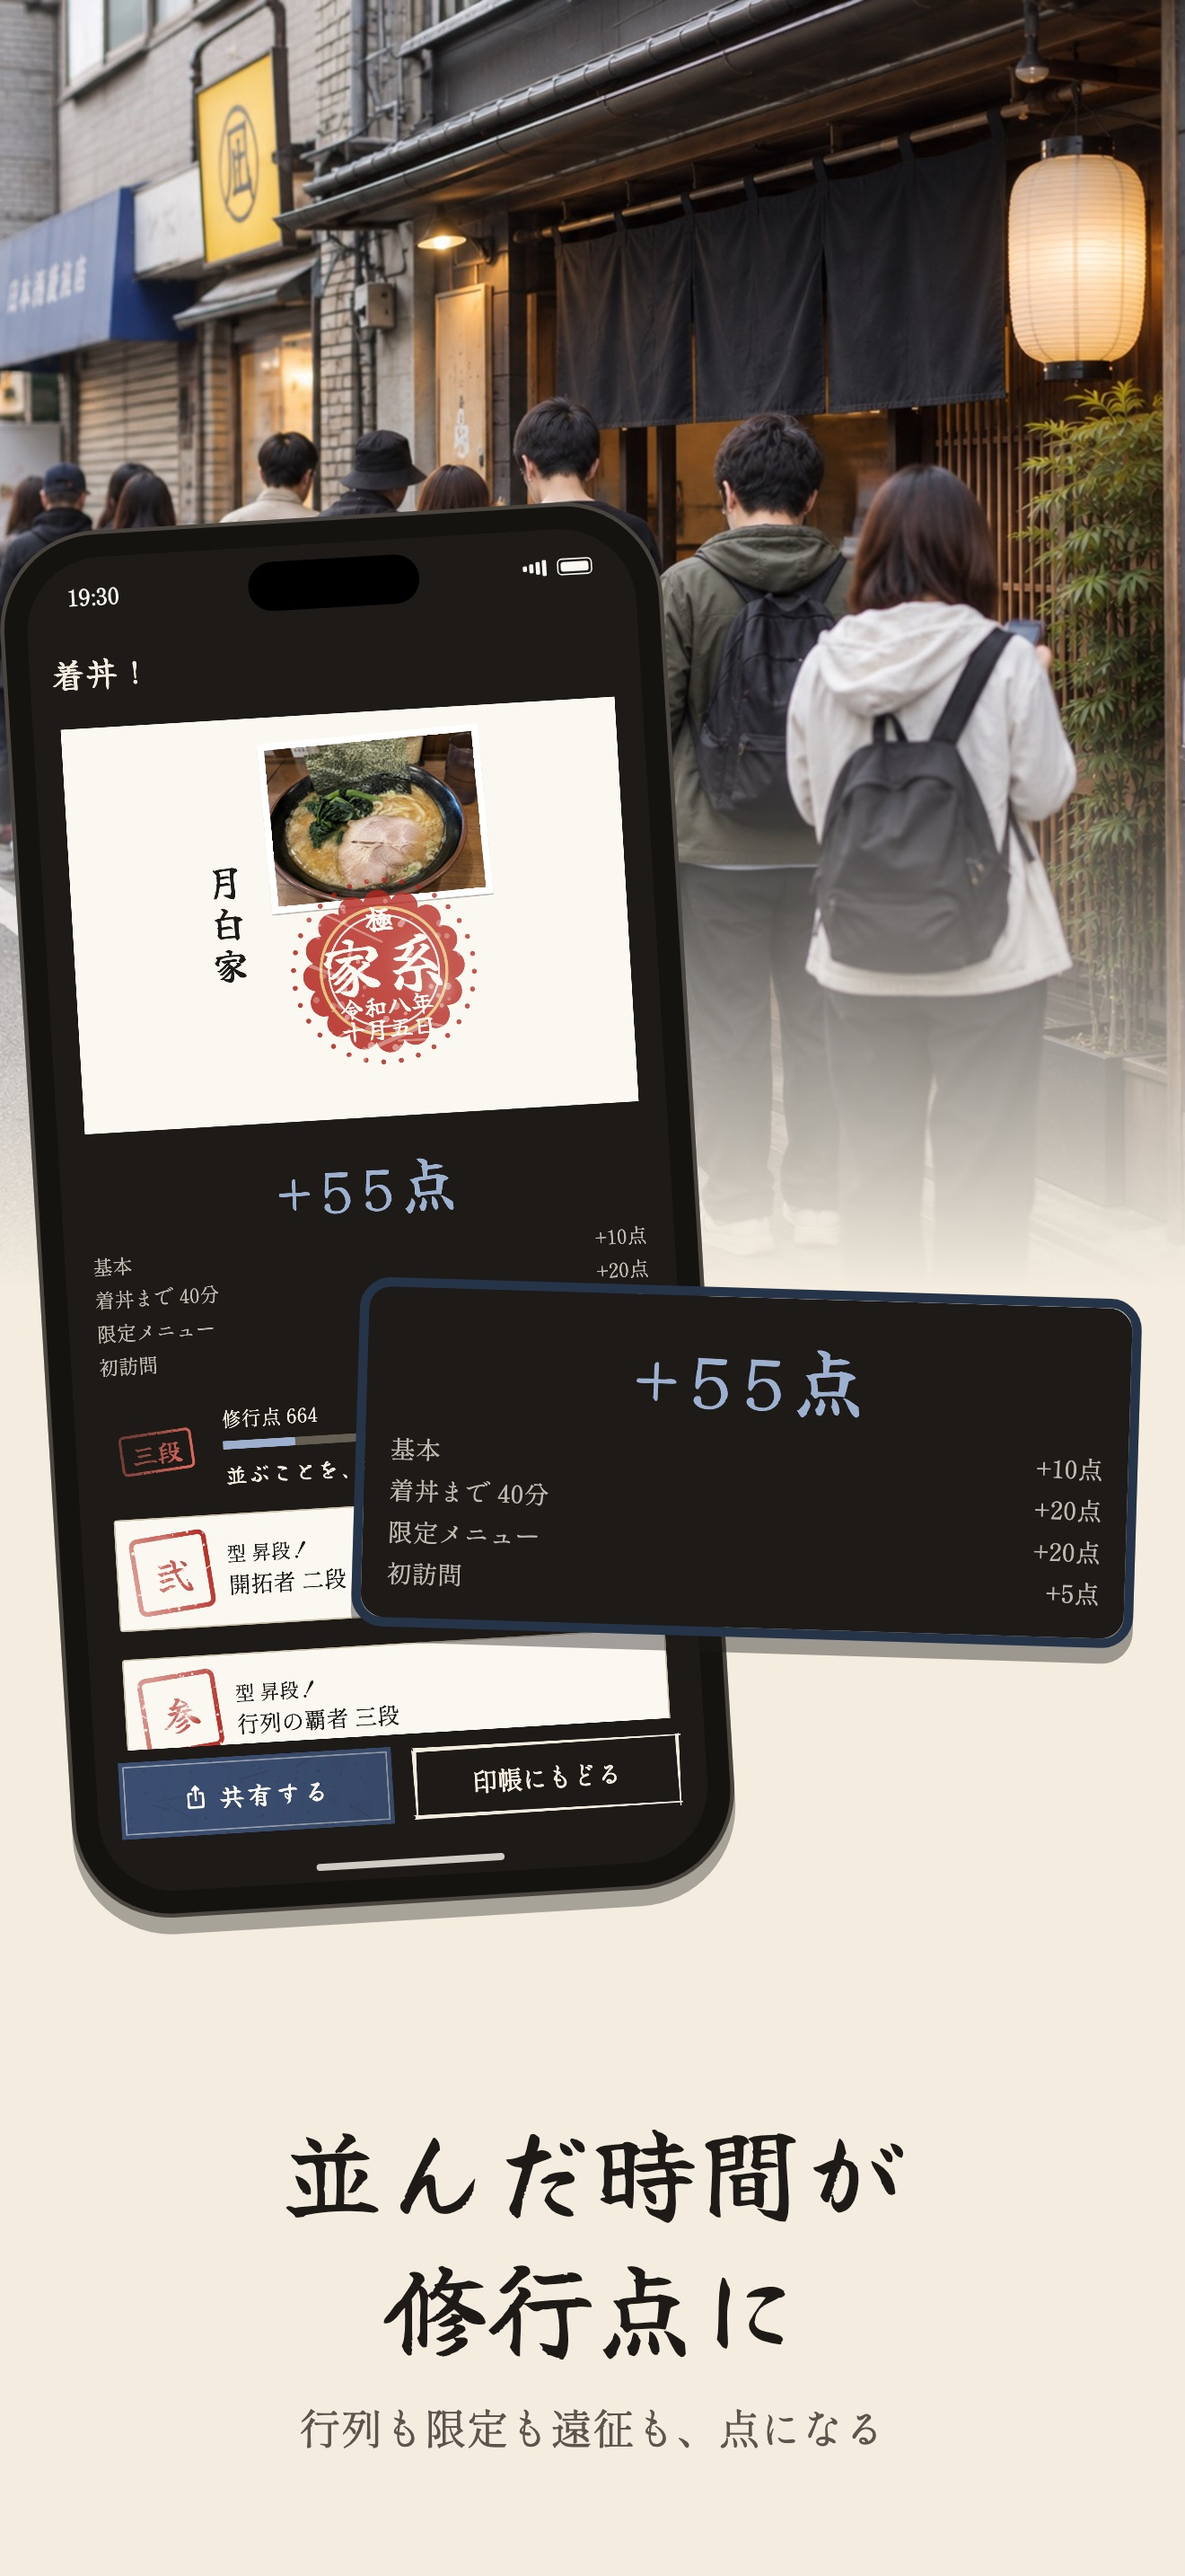
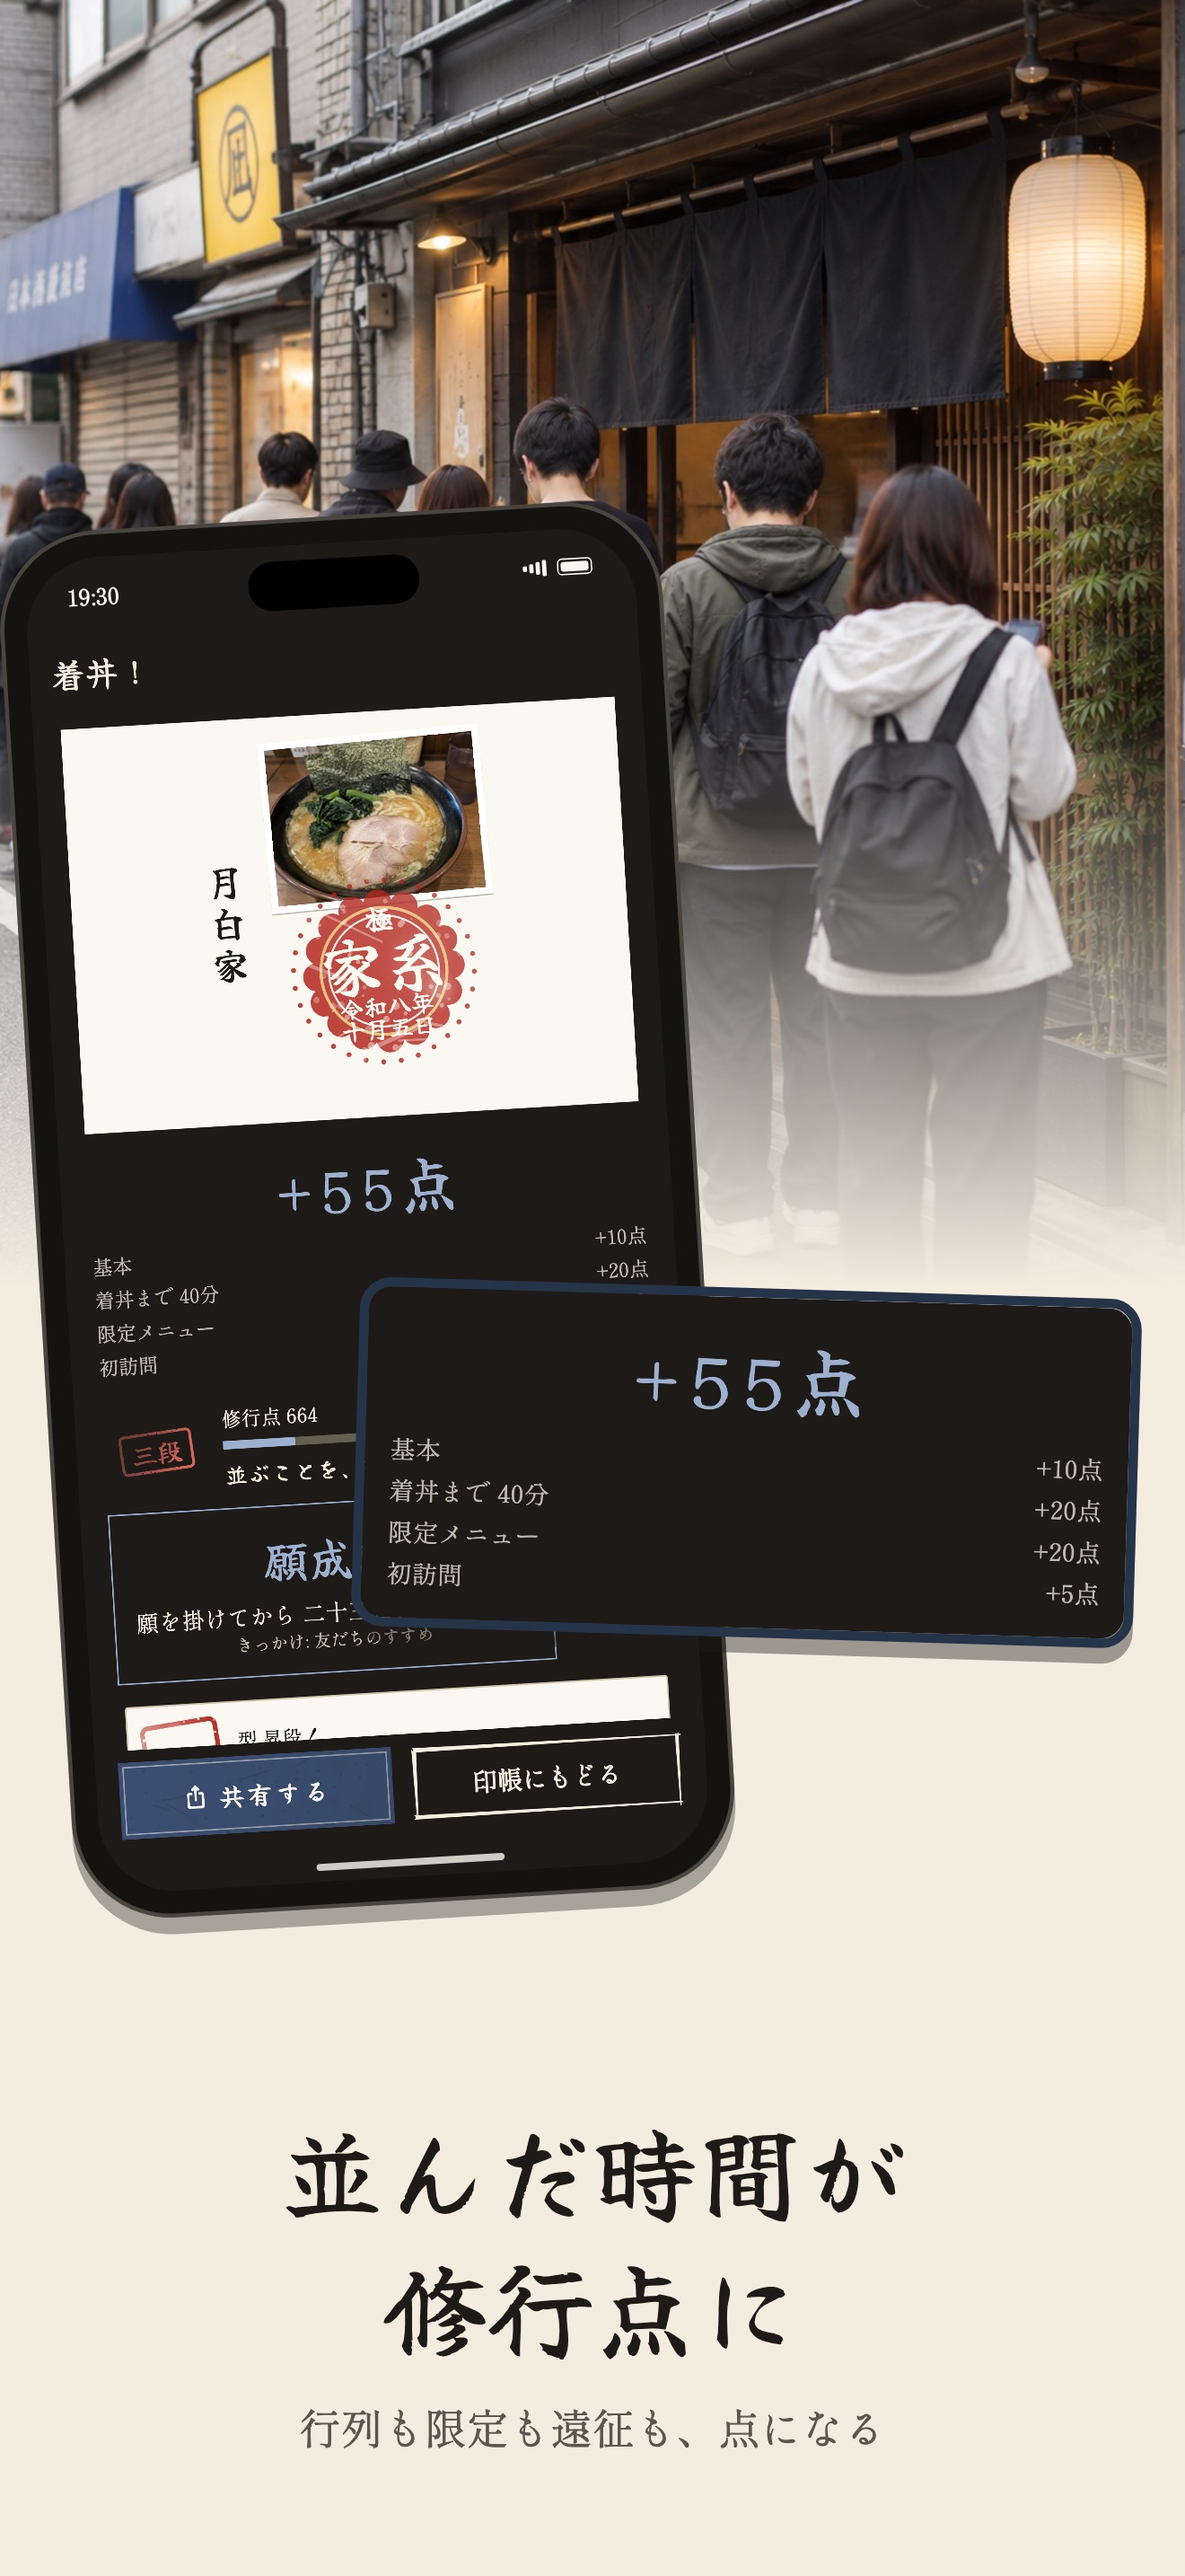
セルフレビューの指摘に対応する（Android の1枚目が切れる・願成就・写真の出所など）

Changed region(s): [[0.0932, 0.5586, 0.5591, 0.6827]]

diff --git a/test/tool/store_shots_test.dart b/test/tool/store_shots_test.dart
@@ -301,6 +301,7 @@ final _wishes = [
     trigger: '友だちのすすめ',
     note: '限定の濃厚が名物らしい',
     createdAt: DateTime(2026, 9, 12),
+    fulfilledVisitId: 'today',
   ),
   Wish(
     id: 'w2',
@@ -462,17 +463,15 @@ void main() {
   setUpAll(() async {
     documents = createTempDirectory();
     photo = p.join(documents.path, 'camera.jpg');
+    if (!_update) {
+      File(photo).writeAsBytesSync(const []);
+      return;
+    }
     for (final name in _photoNames) {
       final bytes = File(_sourcePhoto(name)).readAsBytesSync();
       final codec = await ui.instantiateImageCodec(bytes);
       photos[name] = (await codec.getNextFrame()).image;
-      if (_update) {
-        File(p.join(documents.path, _photoFor(name))).writeAsBytesSync(bytes);
-      }
-    }
-    if (!_update) {
-      File(photo).writeAsBytesSync(const []);
-      return;
+      File(p.join(documents.path, _photoFor(name))).writeAsBytesSync(bytes);
     }
     await loadShotFonts();
     File(_sourcePhoto('iekei')).copySync(photo);
@@ -557,7 +556,10 @@ void main() {
             padding: device.padding,
           );
           expect(tester.takeException(), isNull);
-          final zoom = screen.zoom?.call(tester);
+          // 画面の外は写らないので、拡大する部分は画面の中に収める。
+          final zoom = screen.zoom
+              ?.call(tester)
+              .intersect(Offset.zero & device.screen);
           final image = await tester.runAsync(
             () => captureShot(boundary, ratio),
           );
@@ -606,7 +608,7 @@ void main() {
         child: localizedApp(
           theme: buildAppTheme(),
           home: _FeatureGraphic(
-            photo: photos['iekei']!,
+            photo: photos['iekei'],
             stamps: [_today, _scoredOf('b23')],
           ),
         ),
@@ -680,7 +682,7 @@ class _Composition extends StatelessWidget {
           clipBehavior: Clip.hardEdge,
           children: switch (shot) {
             StoreShot.inchou => _inchou(top, below),
-            StoreShot.record => _record(top, below),
+            StoreShot.record => _record(top),
             StoreShot.result => _result(),
             StoreShot.shugyo => _shugyo(top, below),
             StoreShot.journey => _journey(),
@@ -735,7 +737,7 @@ class _Composition extends StatelessWidget {
 
   /// 1枚目: 大きな端末で印帳を見せ、横に大きな印を2つ浮かべる。
   List<Widget> _inchou(double top, double below) {
-    final width = _fit(0.8, 0.86);
+    final width = _fit(0.8, (h - below - h * 0.025) / h);
     final height = width * _aspect;
     final card = math.min(w * 0.36, h * 0.24);
     return [
@@ -764,7 +766,7 @@ class _Composition extends StatelessWidget {
   }
 
   /// 2枚目: 実写の一杯を上いっぱいに敷き、その上に記録画面を置く。
-  List<Widget> _record(double top, double below) {
+  List<Widget> _record(double top) {
     final width = _fit(0.66, 0.6);
     final height = width * _aspect;
     final photoHeight = h * 0.56;
@@ -925,7 +927,7 @@ class _Composition extends StatelessWidget {
         child: Transform.rotate(
           angle: -0.08,
           child: _Print(
-            photo: photos['shoyu']!,
+            photo: photos['shoyu'],
             width: print,
             caption: _kasumi.name,
           ),
@@ -1234,7 +1236,7 @@ class _Print extends StatelessWidget {
     required this.caption,
   });
 
-  final ui.Image photo;
+  final ui.Image? photo;
   final double width;
   final String caption;
 
@@ -1306,7 +1308,7 @@ Future<void> _writeJpeg(ui.Image image, String path) async {
 class _FeatureGraphic extends StatelessWidget {
   const _FeatureGraphic({required this.photo, required this.stamps});
 
-  final ui.Image photo;
+  final ui.Image? photo;
   final List<ScoredVisit> stamps;
 
   @override

diff --git a/test/tool/shot_kit.dart b/test/tool/shot_kit.dart
@@ -117,7 +117,9 @@ Future<void> pumpShot(
   if (padding != EdgeInsets.zero) {
     // 時刻やホームバーの分の余白（ストアの画像で端末の枠を描くとき）。
     final fake = FakeViewPadding(
+      left: padding.left * 2,
       top: padding.top * 2,
+      right: padding.right * 2,
       bottom: padding.bottom * 2,
     );
     tester.view

diff --git a/docs/decisions/2026-10-08-store-screenshots.md b/docs/decisions/2026-10-08-store-screenshots.md
@@ -1,6 +1,6 @@
 # ストアのスクリーンショットは架空のデータで描き、記録の写真には実写風の写真を使う
 
 - 日付: 2026-10-08、2026-10-09 に写真と構図を見直した
-- 決定: App Store（iPhone 6.9インチ・6.5インチ・iPad 13インチ）と Google Play（スマートフォン・フィーチャー グラフィック）の画像を、使い方の絵と同じ仕組みで架空のデータから描き（`test/tool/store_shots_test.dart`）、`docs/release/screenshots/` に JPEG で置く。記録の写真には、利用者が用意した実写風の写真（`docs/release/screenshots/photos/`）を系統に合わせて使い、アプリ本体には入れない。使い方の絵は丼のイラストのまま。前の3枚で要点（印帳・店内ですぐ記録・修行点）を伝え、後ろの3枚で機能を1つずつ見せ、端末の枠に入れた画面を1枚ごとにちがう構図で置く。iPad の画像は App Store の iPad 欄にだけ使い、ほかで見せるのは iPhone の画像。iPad 対応の設定（`TARGETED_DEVICE_FAMILY`）は変えない
+- 決定: App Store（iPhone 6.9インチ・6.5インチ・iPad 13インチ）と Google Play（スマートフォン・フィーチャー グラフィック）の画像を、使い方の絵と同じ仕組みで架空のデータから描き（`test/tool/store_shots_test.dart`）、`docs/release/screenshots/` に JPEG で置く。記録の写真には、利用者が OpenAI の画像生成で作った実写風の架空の写真（`docs/release/screenshots/photos/`）を系統に合わせて使い、アプリ本体には入れない。使い方の絵は丼のイラストのまま。前の3枚で要点（印帳・店内ですぐ記録・修行点）を伝え、後ろの3枚で機能を1つずつ見せ、端末の枠に入れた画面を1枚ごとにちがう構図で置く。iPad の画像は App Store の iPad 欄にだけ使い、ほかで見せるのは iPhone の画像。iPad 対応の設定（`TARGETED_DEVICE_FAMILY`）は変えない
 - 理由: 実在の人・店・場所を写さず、画面を変えたらいつでも同じ形で作り直せるようにするため。ストアではラーメンがおいしそうに見えるよう実写風の写真にし、要点がひと目で伝わる並びにした（利用者の要望。引き出し日記・シンプル日記・my nicca のストアの画像を参考にした）。iPad でも動くアプリは iPad の画像が要るが、iPad 向けの画面は作っていないため（iPad の扱いは利用者の判断）
 - 関連: #358

diff --git a/docs/release/store-listing.md b/docs/release/store-listing.md
@@ -237,7 +237,7 @@ flutter test --dart-define=UPDATE_STORE_SHOTS=true test/tool/store_shots_test.da
 
 前の3枚でアプリの要点（印が押される印帳・店内ですぐ記録・攻略で貯まる修行点）をひと目で伝え、後ろの3枚で機能を1つずつ見せる。画面は端末の枠に入れ、1枚ごとに構図を変える（大きな端末・実写の写真を敷く・一部を拡大・2台を重ねる、見出しも上と下を混ぜる）。iPad も同じ構成で、iPad の比率に合わせて置き直している。
 
-どの場面も架空のデータで作る。店名は「麺屋 かすみ」「月白家」「つけ麺 しじま」「煮干し 鈴音」「極太麺 雪見」「塩そば 凪」など、拠点は「みどり台駅」のように実在の場所を特定できないもの。座標も実在の人や店の場所ではない。記録の写真は `screenshots/photos/` の実写風の写真で、2026-10-09 に利用者が用意した。醤油2枚・塩・味噌・豚骨・二郎系2枚・つけ麺・家系・汁なし2枚の11枚と、店の前の行列の1枚がある。記録の系統と写真を合わせ、印帳の頁で同じ写真が続かないように割り振っている。系統が二郎の記録にも「ラーメン二郎」の名前は出さない。使い方の絵（`assets/help/`）は丼のイラストのまま。地図は無地にピンと線（地図の画像は取りに行かない）。
+どの場面も架空のデータで作る。店名は「麺屋 かすみ」「月白家」「つけ麺 しじま」「煮干し 鈴音」「極太麺 雪見」「塩そば 凪」など、拠点は「みどり台駅」のように実在の場所を特定できないもの。座標も実在の人や店の場所ではない。記録の写真は `screenshots/photos/` の実写風の写真で、2026-10-09 に利用者が OpenAI の画像生成で作った。実在の人・店を写したものではない。醤油2枚・塩・味噌・豚骨・二郎系2枚・つけ麺・家系・汁なし2枚の11枚と、店の前の行列の1枚がある。記録の系統と写真を合わせ、印帳の頁で同じ写真が続かないように割り振っている。系統が二郎の記録にも「ラーメン二郎」の名前は出さない。使い方の絵（`assets/help/`）は丼のイラストのまま。地図は無地にピンと線（地図の画像は取りに行かない）。
 
 | # | ファイル | 画面と構図 | 見出し | 添え書き |
 |---|---|---|---|---|
